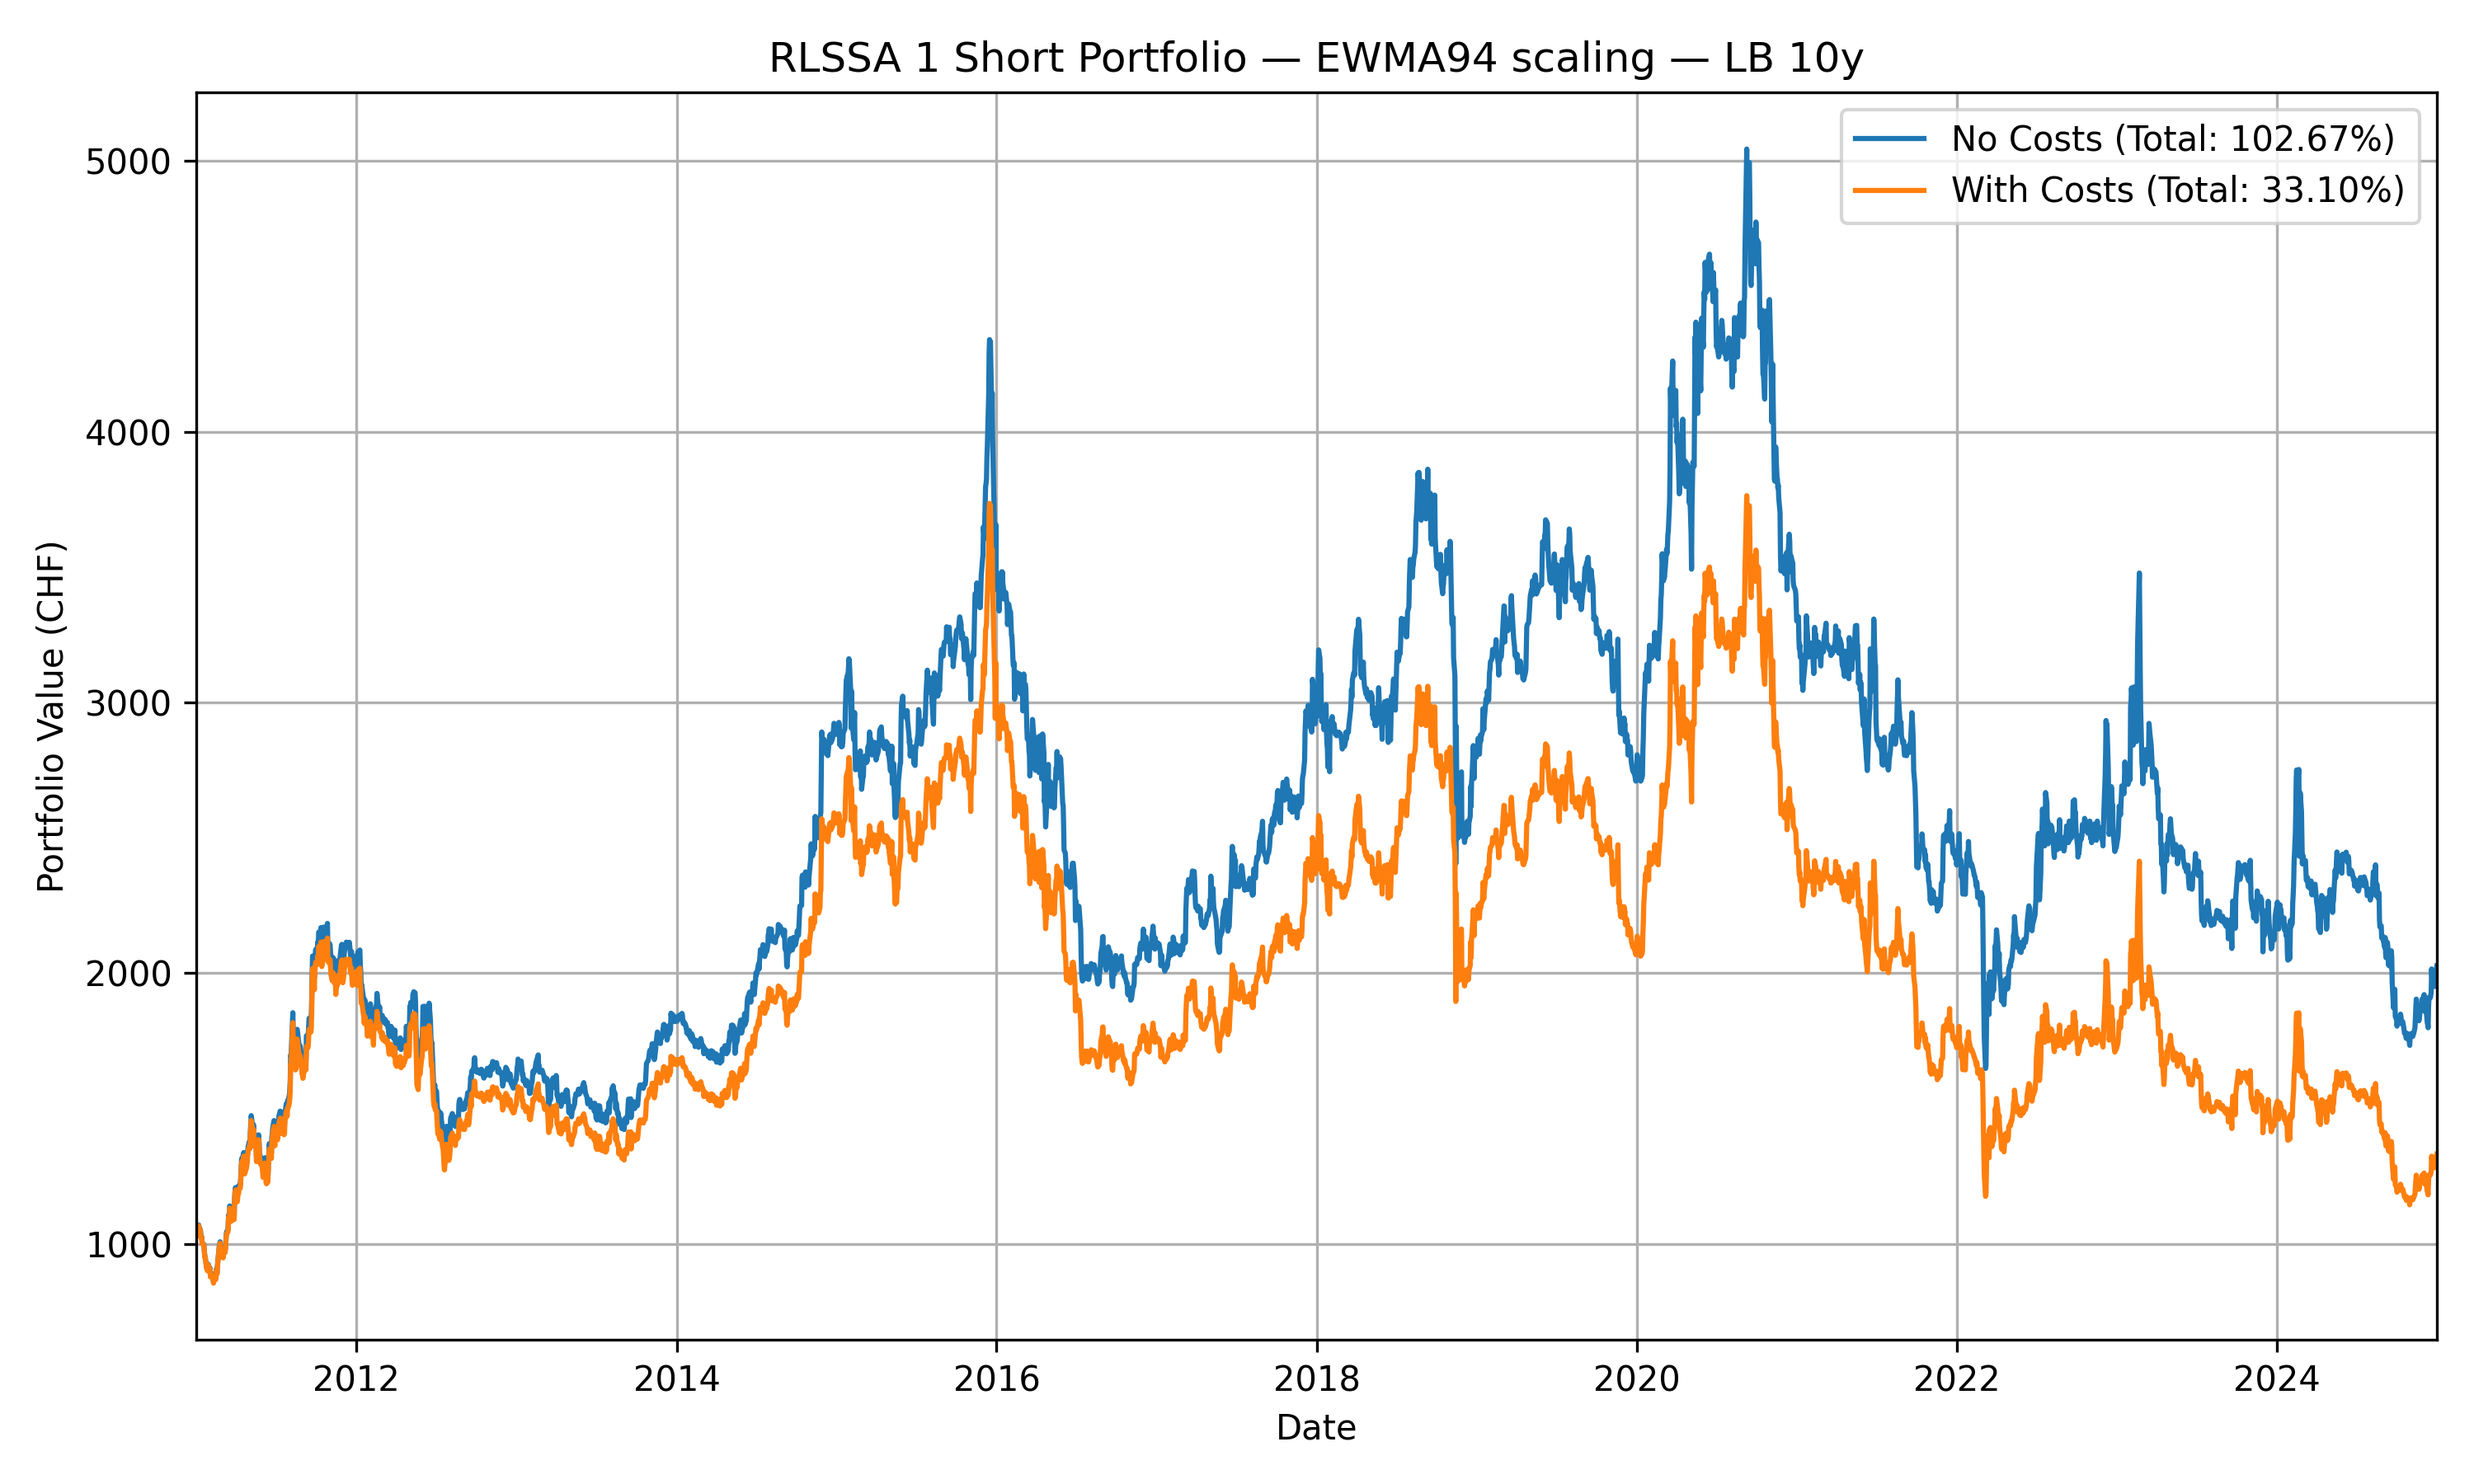
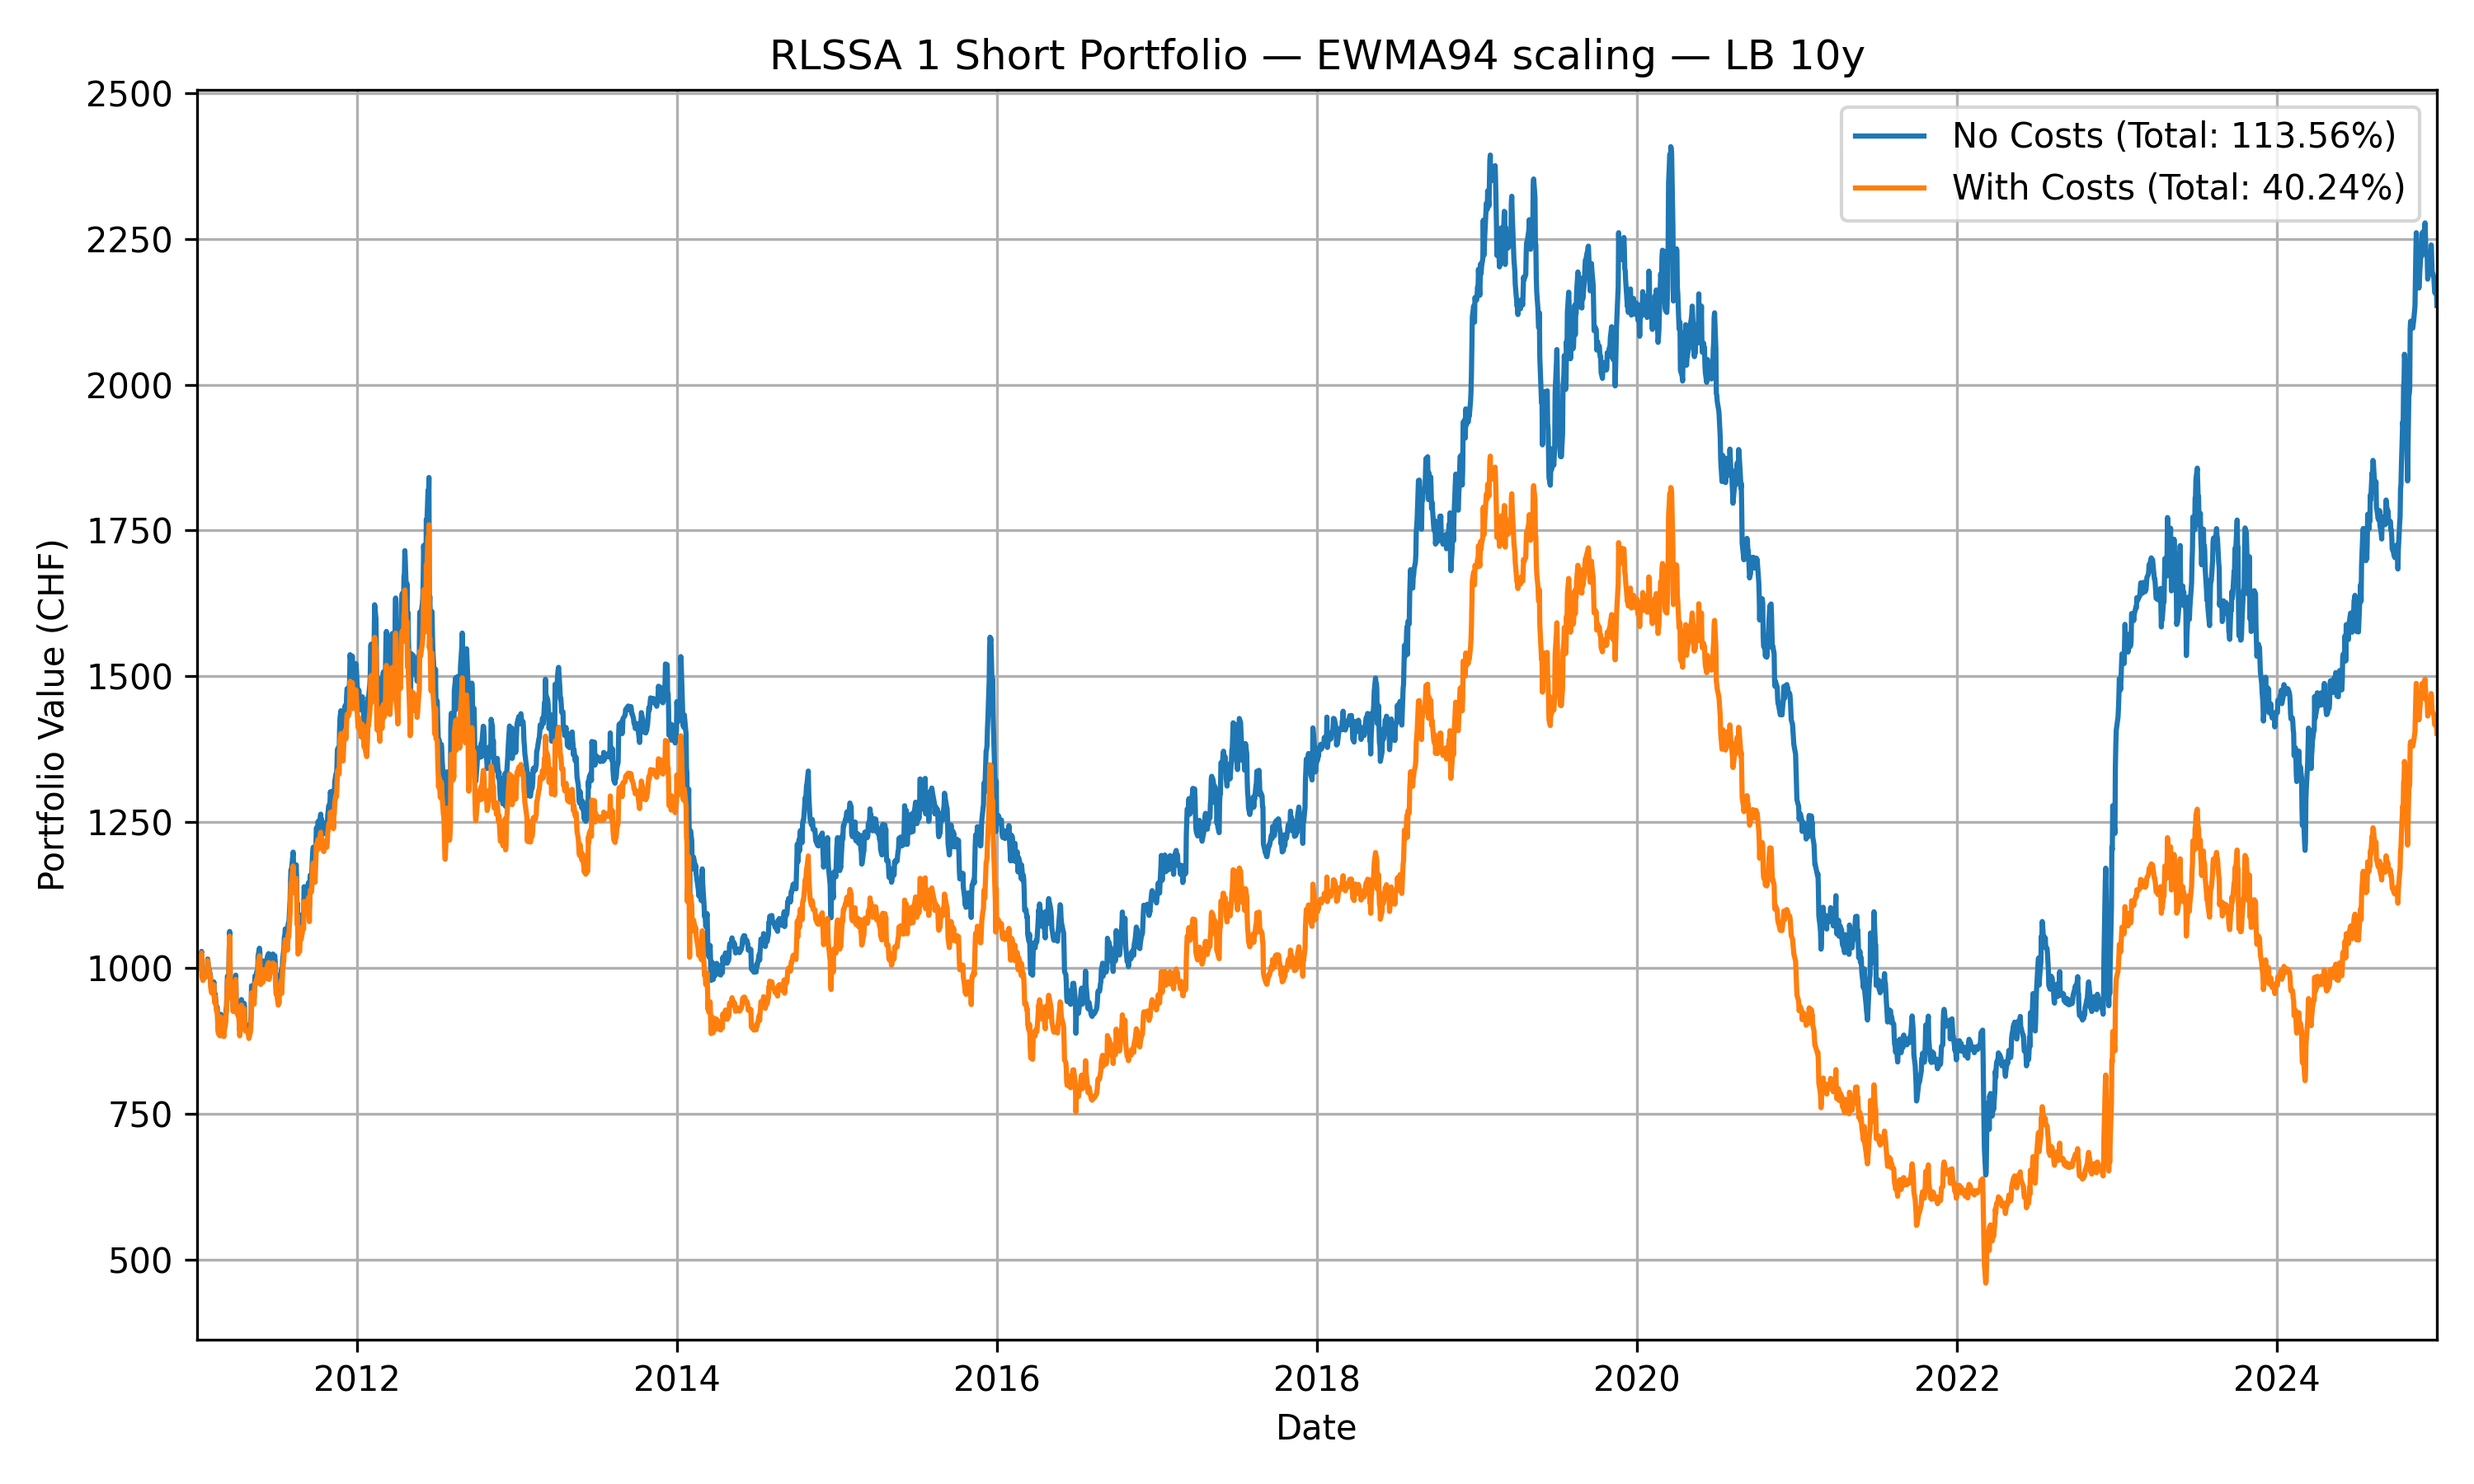
Rerun of all Single Portfolio Plots due to small changes in monthly return

diff --git a/Data Analysis/Seasonality Models/RLSSA_Portfolio_Creator.py b/Data Analysis/Seasonality Models/RLSSA_Portfolio_Creator.py
@@ -13,14 +13,14 @@ START_DATE      = datetime(2001, 1, 1)
 LOOKBACK_YEARS  = 10                 # rolling history for RLSSA & EWMA vol
 FINAL_END       = datetime(2024, 12, 31)
 
-NUM_SELECT      = 2
-MODE            = "LongShort"            # "Long", "Short", or "LongShort"
+NUM_SELECT      = 1
+MODE            = "Short"            # "Long", "Short", or "LongShort"
 
 SSA_WINDOW      = 12
 SSA_COMPS       = 2                  # robust rank (q)
 
 # EWMA volatility on monthly *simple* returns over the same 10y slice
-USE_EWMA_SCALE  = False               # required by your spec; keep toggle for flexibility
+USE_EWMA_SCALE  = True               # required by your spec; keep toggle for flexibility
 EWMA_LAMBDA     = 0.94               # monthly lambda; alpha = 1 - lambda
 MIN_OBS_FOR_VOL = 12                 # minimum months for EWMA vol
 
@@ -83,7 +83,7 @@ def compute_rlssa(series: np.ndarray, L: int, q: int) -> float:
       2) Robust low-rank S ≈ U V^T (rank q)
       3) Hankelize S -> robust fitted rec (length N)
       4) SVD(S) -> Uc; build recurrent coefficients a from Uc
-      5) Forecast \hat y_{N+1} = sum a_j * rec[N+1-j], j=1..L-1
+      5) Forecast y_{N+1} = sum a_j * rec[N+1-j], j=1..L-1
     Returns scalar forecast or np.nan on failure.
     """
     x = np.asarray(series, dtype=float).ravel()

diff --git a/Data Analysis/Seasonality Models/SSA_Portfolio_Creator.py b/Data Analysis/Seasonality Models/SSA_Portfolio_Creator.py
@@ -13,8 +13,8 @@ START_DATE      = datetime(2001, 1, 1)
 LOOKBACK_YEARS  = 10
 FINAL_END       = datetime(2024, 12, 31)
 
-NUM_SELECT      = 1
-MODE            = "Long"   # "Long", "Short", or "LongShort"
+NUM_SELECT      = 2
+MODE            = "LongShort"   # "Long", "Short", or "LongShort"
 
 SSA_WINDOW      = 12
 SSA_COMPS       = 2
@@ -26,7 +26,7 @@ MIN_OBS_FOR_VOL = 12            # min months needed to compute EWMA
 
 ENTRY_COST      = 0.0025         # entry cost only
 START_VALUE     = 1000.0
-PLOT_START, PLOT_END = datetime(2016, 1, 1), datetime(2024, 12, 31)
+PLOT_START, PLOT_END = datetime(2011, 1, 1), datetime(2024, 12, 31)
 
 VOLUME_THRESHOLD = 1000
 DEBUG_DATE       = datetime(2016, 1, 1)
@@ -373,7 +373,7 @@ scale_tag = "EWMA94" if USE_EWMA_SCALE else "RAW"
 title_str = f"SSA_{scale_tag}_{MODE}_Portfolio_{NUM_SELECT}_LB_{LOOKBACK_YEARS}Y.png"
 
 output_dir = Path("plots/SSA_Plots"); output_dir.mkdir(exist_ok=True)
-output_dir = Path("plots/Additional_Plots"); output_dir.mkdir(exist_ok=True)
+#output_dir = Path("plots/Additional_Plots"); output_dir.mkdir(exist_ok=True)
 
 plt.figure(figsize=(10,6))
 plt.plot(perf.index, perf['NoCosts'],  label=f'No Costs (Total: {tot_nc:.2f}%)')

diff --git a/Data Analysis/Seasonality Models/DVR_Portfolio_Creator.py b/Data Analysis/Seasonality Models/DVR_Portfolio_Creator.py
@@ -19,10 +19,10 @@ FINAL_END       = datetime(2024, 12, 31)
 START_VALUE      = 1000.0
 ENTRY_COST       = 0.0025
 LOOKBACK_YEARS   = 10      # or None for full history
-NUM_SELECT       = 1
-STRICT_SEL       = False
-MODE             = "Long"   # "Long", "Short", or "LongShort"
-SIG_LEVEL        = 1
+NUM_SELECT       = 2
+STRICT_SEL       = True
+MODE             = "LongShort"   # "Long", "Short", or "LongShort"
+SIG_LEVEL        = 0.05
 
 PLOT_START, PLOT_END = datetime(2011, 1, 1), datetime(2024, 12, 31)
 
@@ -167,7 +167,6 @@ while current <= FINAL_END:
         # OLS with Newey–West (HAC) robust standard errors
         X = sm.add_constant(df['D'])
         L = newey_west_lags(len(df))  # auto-select NW lag based on window length
-        print(f"HUHU LEnght of Newwey : {L} and {len(df)}")
         ols = sm.OLS(df['return'], X)
         model = ols.fit(cov_type='HAC', cov_kwds={'maxlags': L})  # adjust lag length as needed
 
